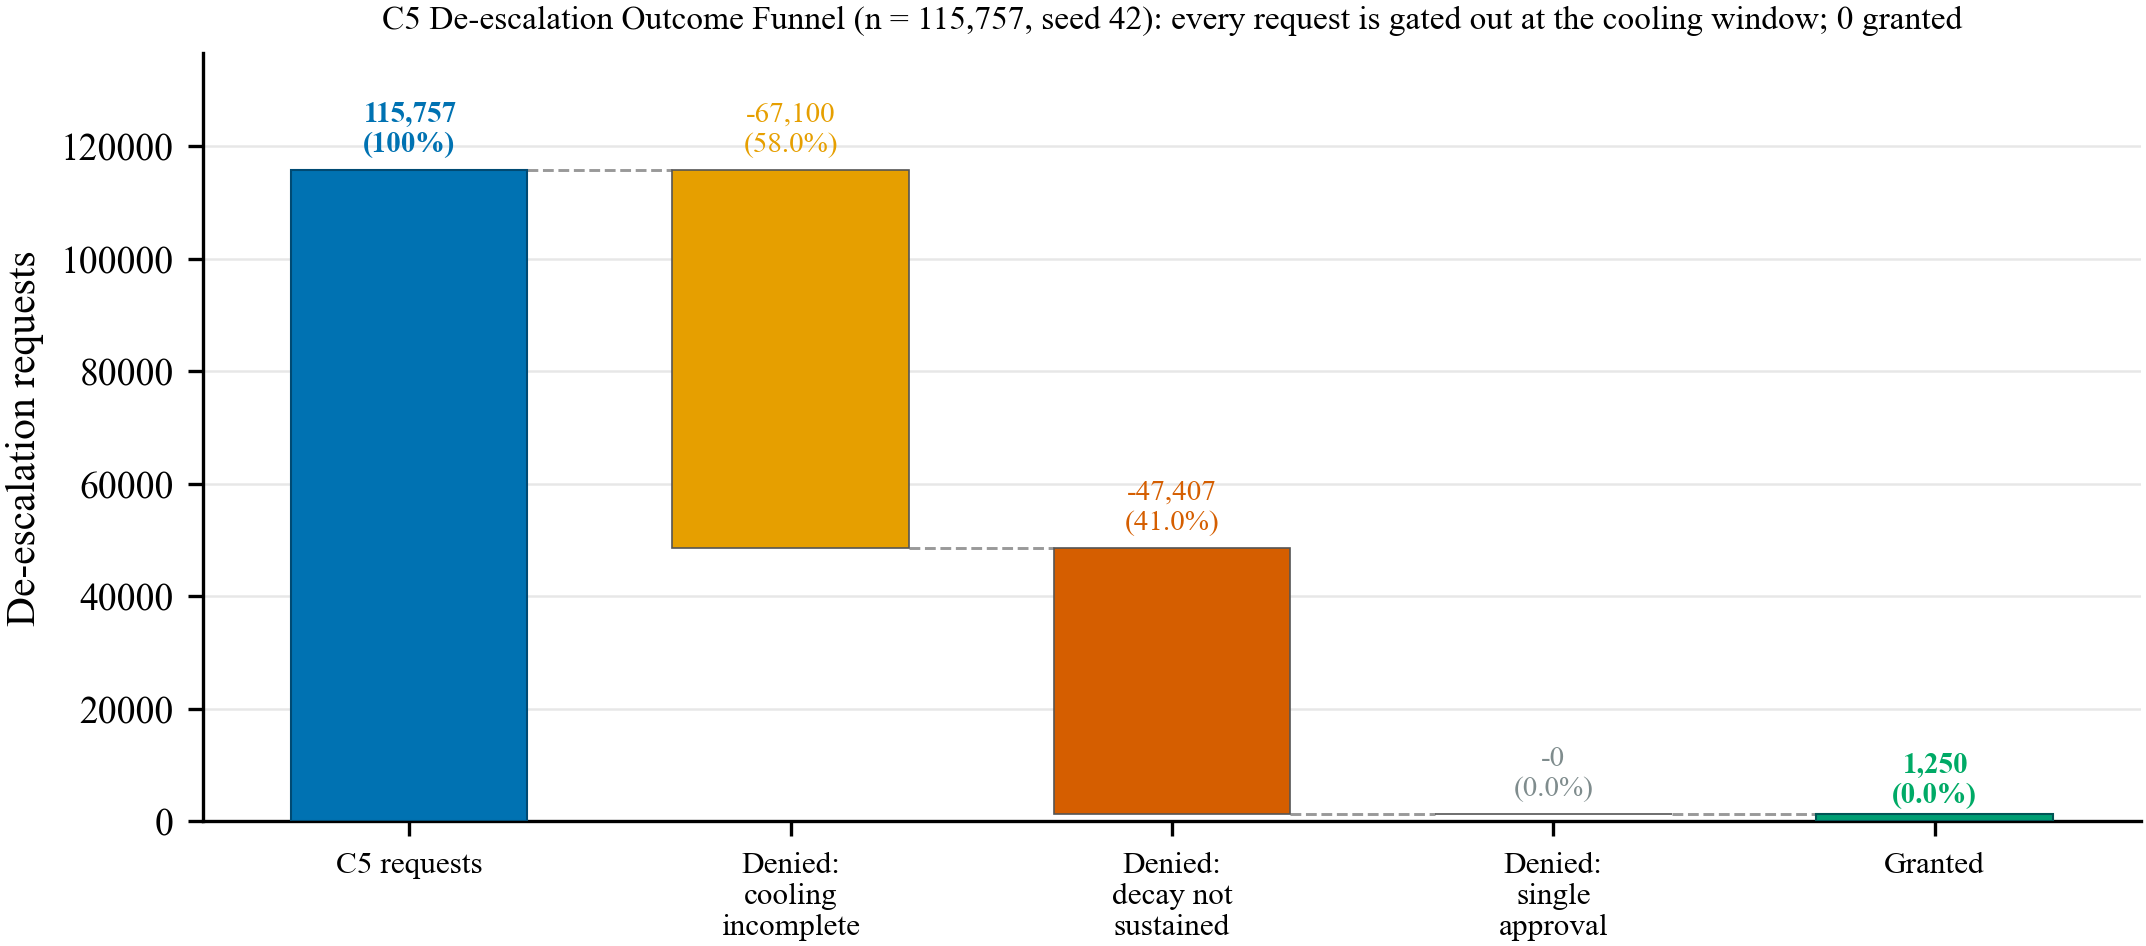
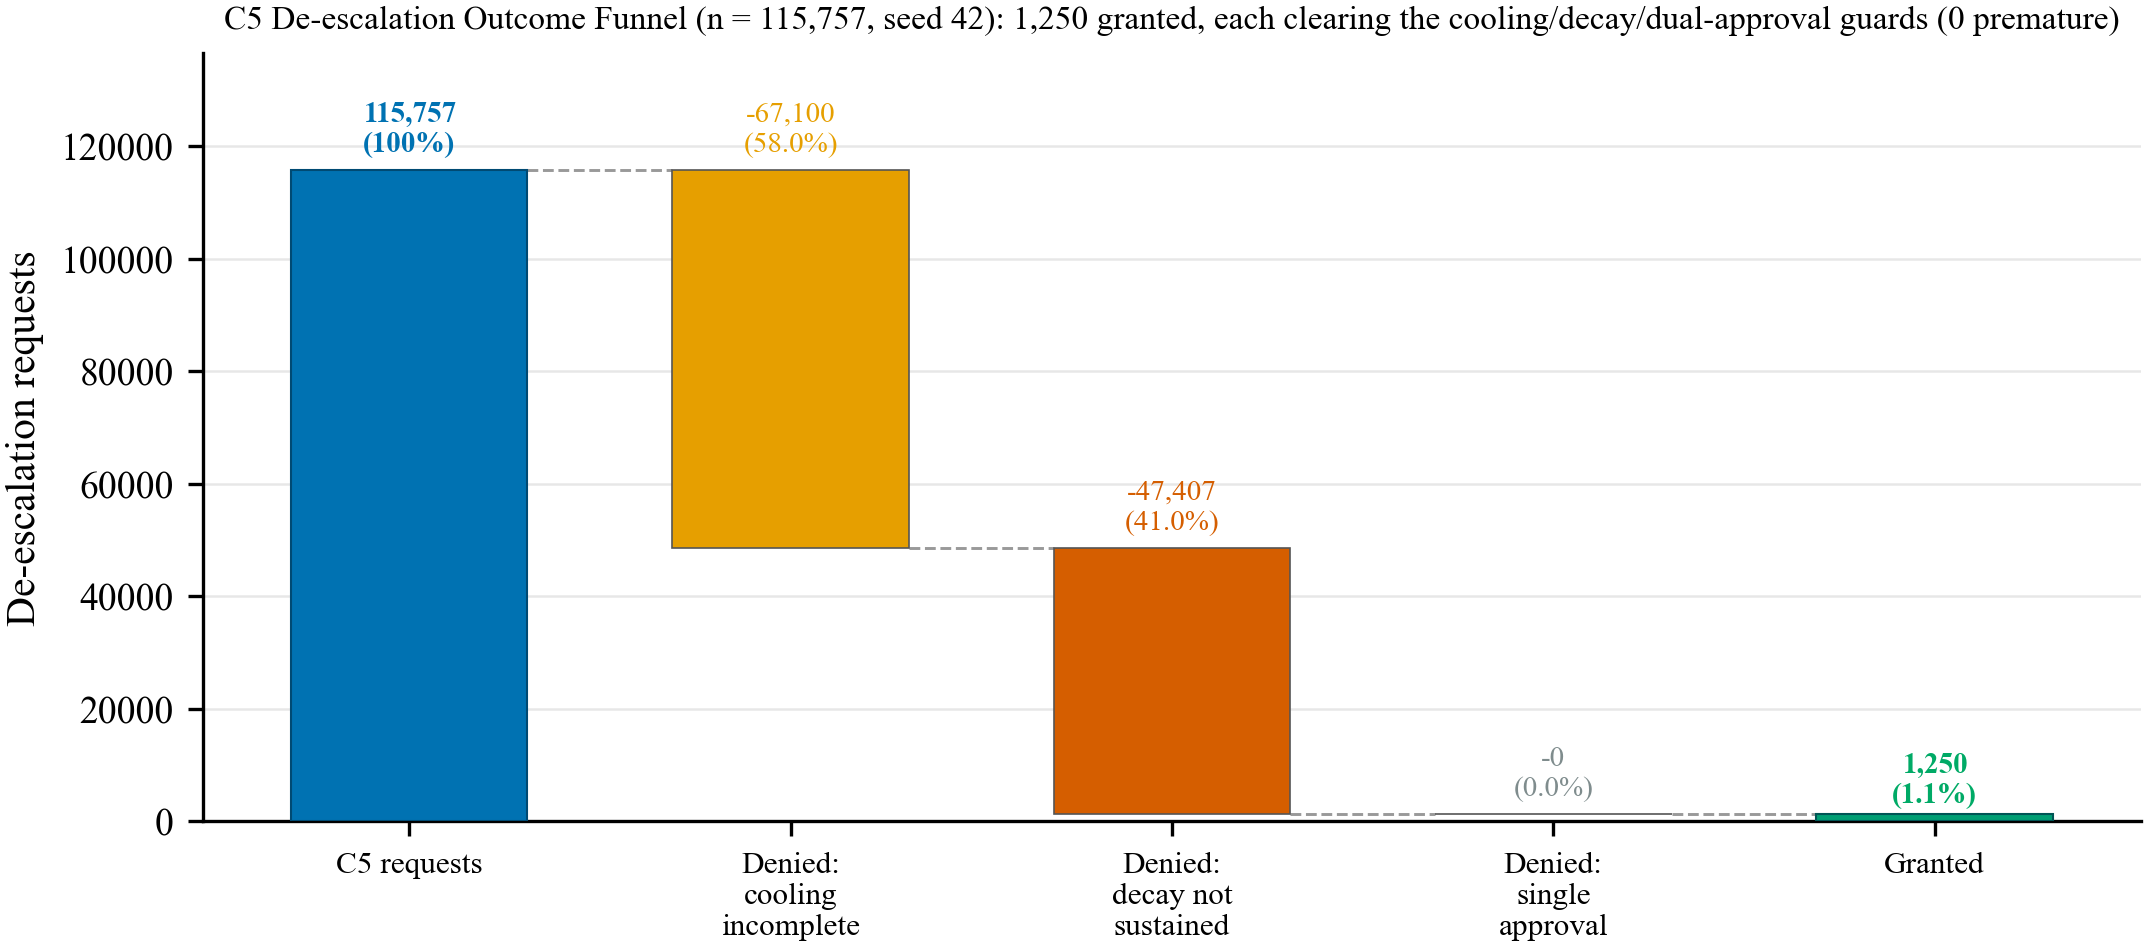
Fix C5 funnel figure: report actual granted count (1,250, all guard-cleared) not hardcoded zero

Changed region(s): [[0.0937, 0.0, 0.9991, 0.0307], [0.8742, 0.8277, 0.9054, 0.8584]]

diff --git a/scripts/generate_figures.py b/scripts/generate_figures.py
@@ -581,7 +581,8 @@ def fig7_c5_rejection(outdir: Path):
             color="#999", lw=0.7, ls="--", zorder=1)
     ax.bar(len(labels) - 1, max(granted, total * 0.004), 0.62, color=DRAS_GREEN,
            edgecolor="#055", linewidth=0.5, zorder=3)
-    ax.text(len(labels) - 1, total * 0.02, f"{granted:,}\n(0.0%)", ha="center",
+    gpct = 100.0 * granted / total if total else 0.0
+    ax.text(len(labels) - 1, total * 0.02, f"{granted:,}\n({gpct:.1f}%)", ha="center",
             va="bottom", fontsize=7, color="#0a6", fontweight="bold")
 
     ax.set_xticks(x)
@@ -592,7 +593,7 @@ def fig7_c5_rejection(outdir: Path):
     ax.grid(axis="x", visible=False)
     ax.set_title(
         f"C5 De-escalation Outcome Funnel (n = {total:,}, seed 42): "
-        "every request is gated out at the cooling window; 0 granted",
+        f"{granted:,} granted, each clearing the cooling/decay/dual-approval guards (0 premature)",
         fontsize=8,
         pad=6,
     )